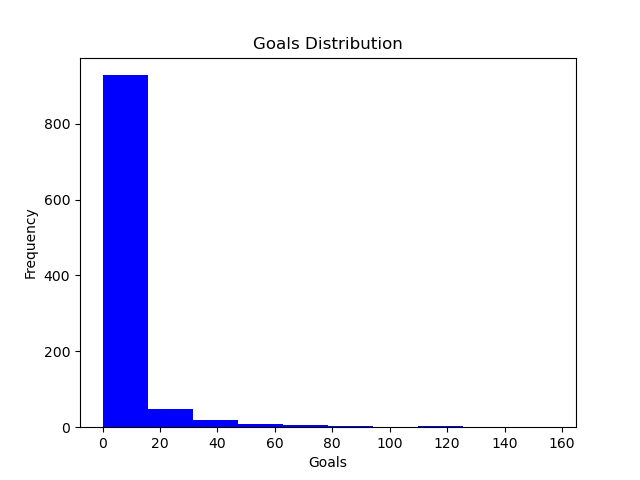
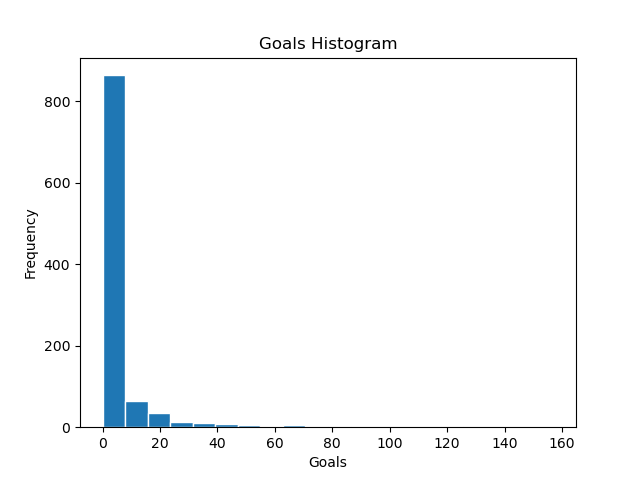
new

diff --git a/main.py b/main.py
@@ -1,44 +1,130 @@
 import polars as pl
-
-# Load your CSV file
-file_path = "/Users/liuliangcheng/Desktop/Duke/ids_de_polars/player_overview.csv"
-
-# Read the dataset using Polars
-df = pl.read_csv(file_path)
-
-# Generate descriptive statistics: mean, median, and standard deviation for numeric columns
-summary_stats = df.select(
-    [
-        pl.col(column).mean().alias(f"{column}_mean")
-        for column, dtype in df.schema.items()
-        if dtype in [pl.Float64, pl.Int64]
-    ]
-    + [
-        pl.col(column).median().alias(f"{column}_median")
-        for column, dtype in df.schema.items()
-        if dtype in [pl.Float64, pl.Int64]
-    ]
-    + [
-        pl.col(column).std().alias(f"{column}_std")
-        for column, dtype in df.schema.items()
-        if dtype in [pl.Float64, pl.Int64]
-    ]
-)
-
-# Print the summary statistics
-print(summary_stats)
-
-# Optionally, save the summary statistics to a new CSV file
-summary_stats.write_csv("summary_statistics.csv")
 import matplotlib.pyplot as plt
 
-# Convert one of the columns (e.g., 'Goals') to a NumPy array for plotting
-goals_data = df["Goals"].to_numpy()
 
-# Create a histogram
-plt.hist(goals_data, bins=10, color="blue")
-plt.title("Goals Distribution")
-plt.xlabel("Goals")
-plt.ylabel("Frequency")
-plt.savefig("goals_histogram.png")  # Save the histogram
-plt.show()
+# Load dataset from csv file using Polars
+def load_dataset(dataset_path):
+    """
+    Loads a dataset from a given path using Polars.
+
+    :param dataset_path: str, path to the dataset
+    :return: Polars DataFrame
+    """
+    df = pl.read_csv(dataset_path)
+    return df
+
+
+# Print the head of the dataset
+def print_head(df, n=5):
+    """
+    Prints and returns the first n rows of the dataframe.
+
+    :param df: Polars DataFrame
+    :param n: int, number of rows to display (default is 5)
+    :return: Polars DataFrame head
+    """
+    data_head = df.head(n)
+    print(data_head)
+    return data_head
+
+
+# Generate descriptive statistics: mean, median, std for numeric columns
+def generate_summary_statistics(df):
+    """
+    Generates summary statistics (mean, median, std) for numeric columns in the dataframe.
+
+    :param df: Polars DataFrame
+    :return: Polars DataFrame with summary statistics
+    """
+    summary_stats = df.select(
+        [
+            pl.col(column).mean().alias(f"{column}_mean")
+            for column, dtype in df.schema.items()
+            if dtype in [pl.Float64, pl.Int64]
+        ]
+        + [
+            pl.col(column).median().alias(f"{column}_median")
+            for column, dtype in df.schema.items()
+            if dtype in [pl.Float64, pl.Int64]
+        ]
+        + [
+            pl.col(column).std().alias(f"{column}_std")
+            for column, dtype in df.schema.items()
+            if dtype in [pl.Float64, pl.Int64]
+        ]
+    )
+    return summary_stats
+
+
+# Group by a categorical column and count occurrences
+def group_by(df, column_name):
+    """
+    Groups by a categorical column and counts occurrences.
+
+    :param df: Polars DataFrame
+    :param column_name: str, column to group by
+    :return: Polars DataFrame with value counts
+    """
+    return df.select(pl.col(column_name).value_counts())
+
+
+# Create a histogram for a given numeric column
+def build_histogram(df, column_name, output_file):
+    """
+    Creates a histogram for a specified numeric column.
+
+    :param df: Polars DataFrame
+    :param column_name: str, column to build histogram for
+    :param output_file: str, path to save the histogram image
+    """
+    plt.hist(df[column_name].to_numpy(), bins=20, edgecolor="white")
+    plt.xlabel(column_name)
+    plt.ylabel("Frequency")
+    plt.title(f"{column_name} Histogram")
+    plt.savefig(output_file)
+    plt.show()
+
+
+# Save summary statistics to markdown
+def save_to_markdown(summary_stats, output_file):
+    """
+    Saves the summary statistics to a markdown file.
+
+    :param summary_stats: Polars DataFrame with summary statistics
+    :param output_file: str, path to save the markdown file
+    """
+    markdown_table = str(summary_stats)
+    with open(output_file, "w", encoding="utf-8") as file:
+        file.write("# Summary Statistics\n")
+        file.write(markdown_table)
+
+
+# Main function to execute the script
+def main():
+    dataset_path = "player_overview.csv"
+    dataframe = load_dataset(dataset_path)
+
+    if dataframe is not None:
+        # Print the head of the dataset
+        print_head(dataframe)
+
+        # Generate and print summary statistics
+        summary_stats = generate_summary_statistics(dataframe)
+        print(summary_stats)
+
+        # Group by example columns
+        print(group_by(dataframe, "Position"))
+        print(group_by(dataframe, "Nationality"))
+
+        # Build and save histogram for "Goals"
+        build_histogram(dataframe, "Goals", "goals_histogram.png")
+
+        # Save the summary statistics to markdown
+        save_to_markdown(summary_stats, "player_summary.md")
+    else:
+        print("Dataset was not successfully loaded")
+
+
+# Run the main function
+if __name__ == "__main__":
+    main()

diff --git a/test_main.py b/test_main.py
@@ -1,81 +1,55 @@
 import unittest
 import polars as pl
 import os
+from main import (
+    load_dataset,
+    generate_summary_statistics,
+    group_by,
+    build_histogram,
+    save_to_markdown,
+    print_head,
+)
 
 
-class TestPolarsDescriptiveStats(unittest.TestCase):
+class TestPolarsFunctions(unittest.TestCase):
 
     @classmethod
     def setUpClass(cls):
-        # This method runs once before any test
-        cls.file_path = (
-            "/Users/liuliangcheng/Desktop/Duke/ids_de_polars/player_overview.csv"
-        )
-        cls.df = pl.read_csv(cls.file_path)
+        cls.dataset_path = "player_overview.csv"
+        cls.df = load_dataset(cls.dataset_path)
 
-    def test_data_loading(self):
-        """Test if the CSV file is loaded correctly"""
-        self.assertIsNotNone(self.df, "DataFrame is None")
-        self.assertGreater(self.df.height, 0, "DataFrame is empty")
+    def test_load_dataset(self):
+        """Test if dataset loads correctly."""
+        self.assertIsNotNone(self.df)
+        self.assertGreater(self.df.height, 0, "Dataframe is empty")
+
+    def test_print_head(self):
+        """Test if the head of the dataframe prints correctly."""
+        head = print_head(self.df)
+        self.assertEqual(len(head), 5, "Head does not return 5 rows")
 
     def test_summary_statistics(self):
-        """Test if summary statistics are calculated correctly"""
-        summary_stats = self.df.select(
-            [
-                pl.col(column).mean().alias(f"{column}_mean")
-                for column, dtype in self.df.schema.items()
-                if dtype in [pl.Float64, pl.Int64]
-            ]
-            + [
-                pl.col(column).median().alias(f"{column}_median")
-                for column, dtype in self.df.schema.items()
-                if dtype in [pl.Float64, pl.Int64]
-            ]
-            + [
-                pl.col(column).std().alias(f"{column}_std")
-                for column, dtype in self.df.schema.items()
-                if dtype in [pl.Float64, pl.Int64]
-            ]
-        )
+        """Test if summary statistics are generated correctly."""
+        summary_stats = generate_summary_statistics(self.df)
+        self.assertGreater(summary_stats.width, 0, "Summary statistics are empty")
 
-        # Check if summary statistics DataFrame has data
-        self.assertGreater(summary_stats.height, 0, "Summary statistics are empty")
-        self.assertGreaterEqual(
-            summary_stats.width,
-            6,
-            "Summary statistics does not contain expected number of columns",
-        )
+    def test_group_by(self):
+        """Test if group_by function works for categorical columns."""
+        group_result = group_by(self.df, "Position")
+        self.assertGreater(len(group_result), 0, "Group by returned empty result")
 
-    def test_csv_output(self):
-        """Test if the CSV file with summary statistics is created"""
-        summary_stats = self.df.select(
-            [
-                pl.col(column).mean().alias(f"{column}_mean")
-                for column, dtype in self.df.schema.items()
-                if dtype in [pl.Float64, pl.Int64]
-            ]
-            + [
-                pl.col(column).median().alias(f"{column}_median")
-                for column, dtype in self.df.schema.items()
-                if dtype in [pl.Float64, pl.Int64]
-            ]
-            + [
-                pl.col(column).std().alias(f"{column}_std")
-                for column, dtype in self.df.schema.items()
-                if dtype in [pl.Float64, pl.Int64]
-            ]
-        )
-        # Write the statistics to a CSV file
-        summary_stats.write_csv("test_summary_statistics.csv")
+    def test_build_histogram(self):
+        """Test if the histogram is created and saved."""
+        build_histogram(self.df, "Goals", "test_goals_histogram.png")
+        self.assertTrue(os.path.exists("test_goals_histogram.png"))
+        os.remove("test_goals_histogram.png")
 
-        # Test if the file was created
-        self.assertTrue(
-            os.path.exists("test_summary_statistics.csv"),
-            "Summary statistics CSV file was not created",
-        )
-
-        # Optionally, clean up the file after test
-        os.remove("test_summary_statistics.csv")
+    def test_save_to_markdown(self):
+        """Test if summary statistics are saved to markdown."""
+        summary_stats = generate_summary_statistics(self.df)
+        save_to_markdown(summary_stats, "test_player_summary.md")
+        self.assertTrue(os.path.exists("test_player_summary.md"))
+        os.remove("test_player_summary.md")
 
 
 if __name__ == "__main__":

diff --git a/player_summary.md b/player_summary.md
@@ -1,0 +1,9 @@
+# Summary Statistics
+shape: (1, 12)
+┌──────────────────┬────────────┬──────────────┬───────────────────┬───┬─────────────────┬───────────┬─────────────┬──────────────────┐
+│ Appearances_mean ┆ Goals_mean ┆ Assists_mean ┆ Clean sheets_mean ┆ … ┆ Appearances_std ┆ Goals_std ┆ Assists_std ┆ Clean sheets_std │
+│ ---              ┆ ---        ┆ ---          ┆ ---               ┆   ┆ ---             ┆ ---       ┆ ---         ┆ ---              │
+│ f64              ┆ f64        ┆ f64          ┆ f64               ┆   ┆ f64             ┆ f64       ┆ f64         ┆ f64              │
+╞══════════════════╪════════════╪══════════════╪═══════════════════╪═══╪═════════════════╪═══════════╪═════════════╪══════════════════╡
+│ 44.309665        ┆ 4.609467   ┆ 3.403353     ┆ 9.831776          ┆ … ┆ 67.945908       ┆ 12.822555 ┆ 8.784355    ┆ 20.203756        │
+└──────────────────┴────────────┴──────────────┴───────────────────┴───┴─────────────────┴───────────┴─────────────┴──────────────────┘
